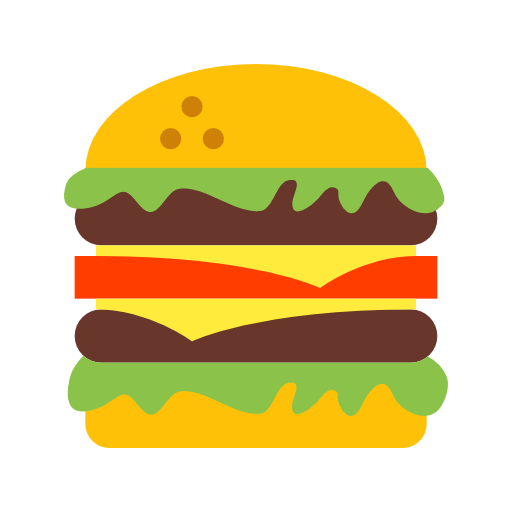
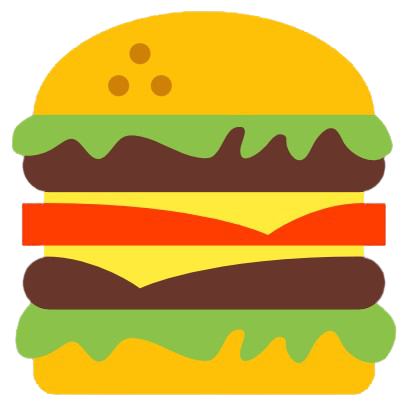
iniciando login

diff --git a/src/App.css b/src/App.css
@@ -9,48 +9,68 @@ padding: 10px;
 
 .red-btn{
     background-color:#FF3D00;
+    border: 3px solid #DF3600;
 }
 .orange-btn{
     background-color: #FFB800;
+    border:3px solid #CC9300;
 }
 
 .orange-btn, .red-btn{
-width: 95%;
+width: 93%;
 margin:auto;
 color:#ffffff;
 font-weight: bold;
-border:none;
-height: 5.5vh;
+font-size: 105%;
+height: 6vh;
 padding:6px;
-margin: 10px;
+letter-spacing: -0.7px;
 }
 
 .divInfo{
-    background-color:#FFE1BE;
-    width: 20vw;
-    flex-direction: column;
-    margin: auto;
-    margin-top: 30px;
-    height: 50vh;
-    text-align: center;
-    border-radius: 18px;
+background-color:#FFE1BE;
+width: 21vw;
+flex-direction: column;
+margin: auto;
+height: 60%;
+text-align: center;
+border-radius: 18px;
+position: absolute;
+margin-left: 37%;
+z-index: 3;
+margin-top: 10%; /*aqui se for tela cheia tem de ser 12%*/
 }
 
 .inputInfo{
     width: 100%;
+    margin-bottom: 4%;
 }
 input{
     width: 92%;
     margin:auto;
-    margin-bottom: 5%;
     border:none;
-    height: 25px;
+    height: 30px;
+    outline: none;
 }
 
-.burger-img{
+main img{
+    position: absolute;
+    z-index: -3;
+    margin-left: 25%;
+    margin-top: 0;
+    height: 100vh;
     width:45%;
-    background-image: url('./assets/images/burger.png');
-    background-size: cover;
-    margin: auto;
-    height: 90vh;
+}
+.isWorker{
+    margin-bottom: 2%;
+    margin-top: 12%;
+    color: #3B1E04;
+}
+.labelInputs{
+    text-align: left;
+    margin-left: 3%;
+    margin-bottom: 0;
+    margin-top: 3%;
+    color: #3B1E04;
+    letter-spacing: -0.7px;
 }

diff --git a/src/pages/Home/index.js b/src/pages/Home/index.js
@@ -1,6 +1,6 @@
-//import testImage from '../../assets/images/teste.png';
 import { useHistory } from 'react-router-dom';
 import { Button } from '../../components/Button/index.js';
+import imgBurger from '../../assets/images/figma-burger.png';
 
 
 export function Home(){
@@ -14,22 +14,22 @@ export function Home(){
     return(
 <div>
     <main>
-        <div className="burger-img">
+        <img src={imgBurger} alt="imgburger" />
         <div className="divInfo">
             <h2> LOGIN</h2>
             <form>
                 <div className="inputInfo">
-                <input type="text" placeholder="Email" />
-                <input type="password"placeholder="Digite a senha"></input>
+                <p class="labelInputs">Email</p>
+                <input type="text"/>
+                <p class="labelInputs">Senha</p>
+                <input type="password"></input>
                  </div>
                <Button btnType="submit" btnClass="orange-btn" btnText="ENTRAR" />
                </form>
+               <p className="isWorker">É funcionário?</p>
             <Button btnType="button" btnClass="red-btn" btnText="CADASTRE-SE" btnOnClick={navigateToRegister}/>
-        </div>
         </div>
     </main>
 </div>
     )
 }
-
- //<img src={testImage} alt="teste imagem" />
